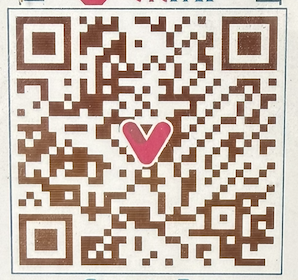
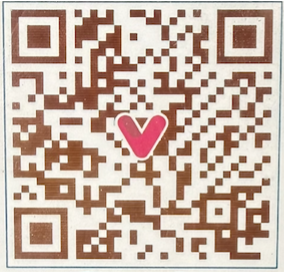
Cập nhật ảnh mã QR hóa đơn

diff --git a/index-5f1077e3f04d4860584415e65bcaa38a.js b/index-5f1077e3f04d4860584415e65bcaa38a.js
@@ -19005,7 +19005,7 @@ __d(
                                 children: "THANH TO\xc1N QUA NG\xc2N H\xc0NG",
                               }),
                               (0, D.jsx)("img", {
-                                src: `/quan-ly-ban-hang-bao-ninh/bao-ninh-vnpay-qr.png?v=2`,
+                                src: `/quan-ly-ban-hang-bao-ninh/bao-ninh-vnpay-qr.png?v=3`,
                                 alt: "M\xe3 QR thanh to\xe1n VietinBank",
                                 style: l.receiptQrImage,
                               }),
@@ -39954,7 +39954,7 @@ __d(
             : p.reduce((n, t) => n + t.qty * t.unit_price, 0),
           u = Math.max(o.total - h, 0),
           f = Math.max(o.total - o.paid_amount, 0),
-          E = `/quan-ly-ban-hang-bao-ninh/bao-ninh-vnpay-qr.png?v=2`,
+          E = `/quan-ly-ban-hang-bao-ninh/bao-ninh-vnpay-qr.png?v=3`,
           v = p
             .map(
               (n) =>

diff --git a/index.html b/index.html
@@ -41,5 +41,5 @@ input,textarea,select{font-size:16px!important;min-width:0;max-width:100%;box-si
     <!-- The root element for your Expo app. -->
     <div id="root"></div>
   
-<script>window.salesAppScripts=["/quan-ly-ban-hang-bao-ninh/index-5f1077e3f04d4860584415e65bcaa38a.js?v=20260926f"];</script><script src="./browser-start.js"></script><script src="./coi-serviceworker.js"></script></body>
+<script>window.salesAppScripts=["/quan-ly-ban-hang-bao-ninh/index-5f1077e3f04d4860584415e65bcaa38a.js?v=20260926g"];</script><script src="./browser-start.js"></script><script src="./coi-serviceworker.js"></script></body>
 </html>
